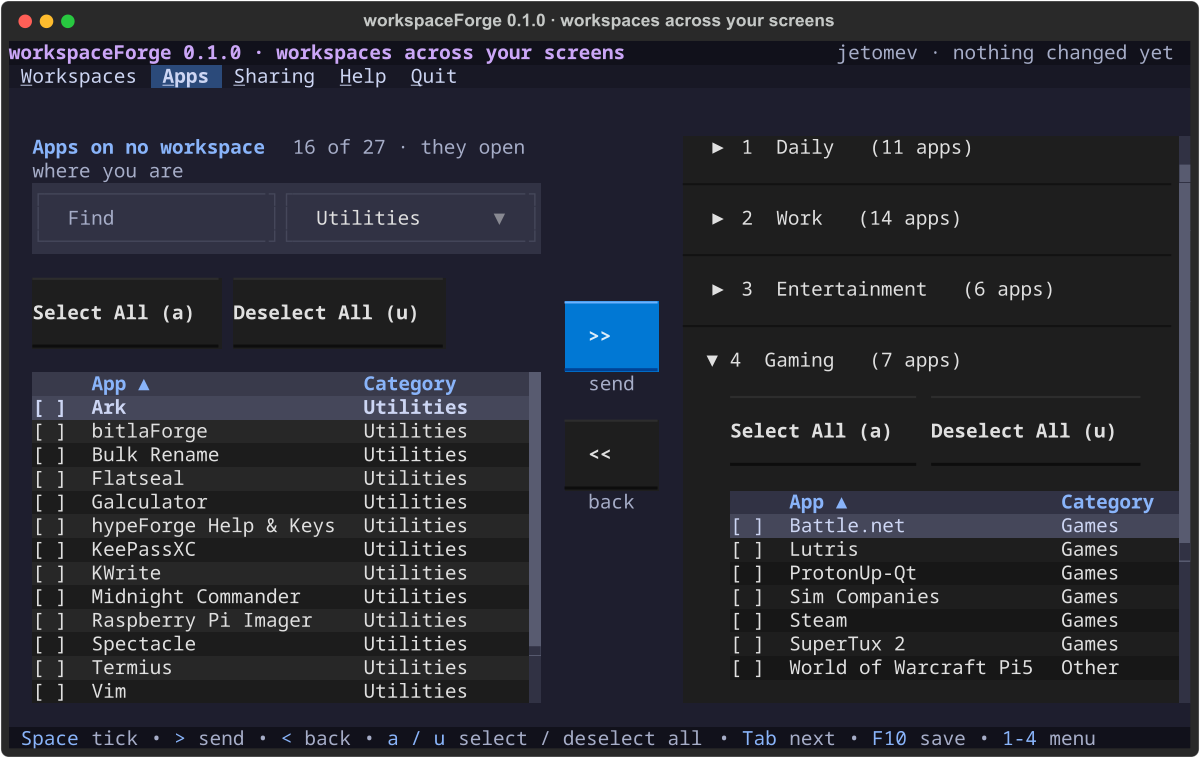
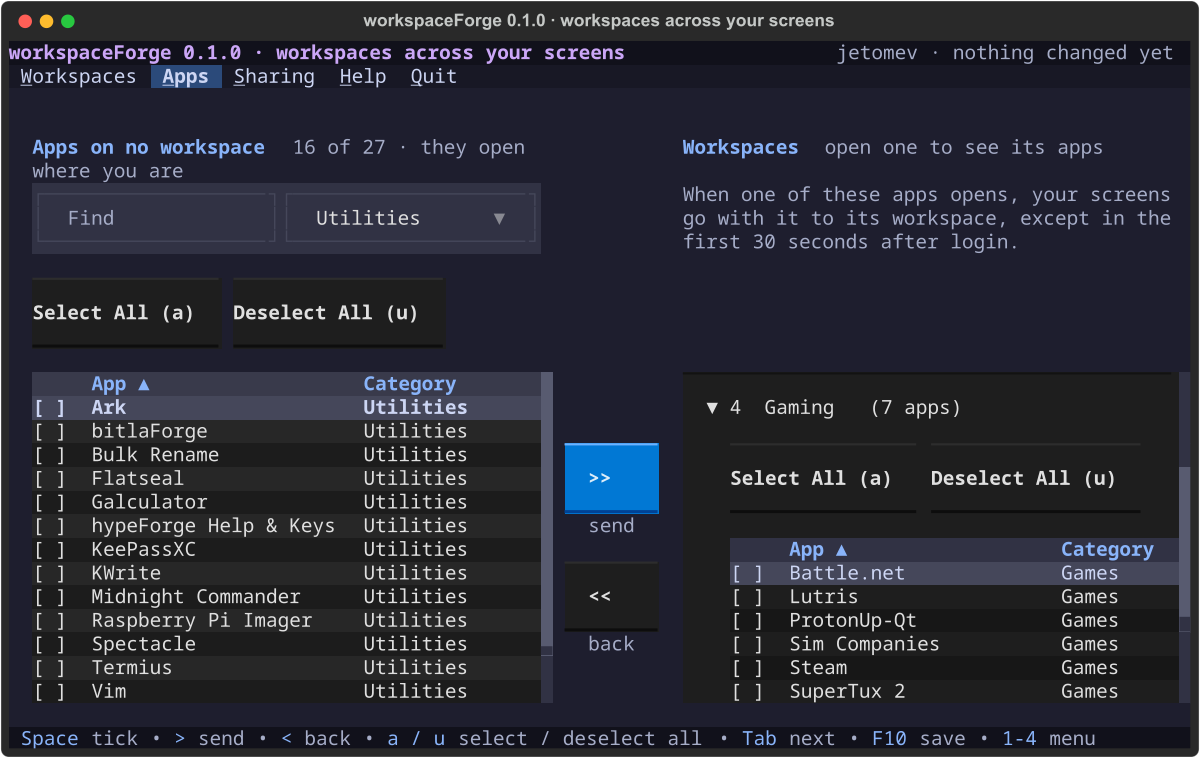
fix(workspaceforge): the Apps page's two tables start and end on the same lines (Javier's first run)
Javier: "Both tables should be at the same height, right now
workspaces is over." One header row across both sides (the apps'
title, filters and buttons on the left; the workspaces' title and the
note on the right); the tables share the body below it.

diff --git a/workspaceforge/workspaceforge/app.py b/workspaceforge/workspaceforge/app.py
@@ -47,12 +47,17 @@ WF_CSS = FORGE_CSS + """
              border-title-style: bold; padding: 0 1; margin: 1 1 0 0; }
 #wf-switch Horizontal { height: auto; }
 #wf-switch-words { width: 1fr; padding: 0 0 0 2; }
-#wf-pool-box { width: 1fr; height: 1fr; padding: 1 1 0 0; }
+#wf-apps-head { height: auto; padding: 1 0 0 0; }
+.wf-side { width: 1fr; height: auto; }
+#wf-pool-box { padding: 0 1 0 0; }
+#wf-right-head { padding: 0 0 0 1; }
+#wf-mid-head { width: 10; }
+#wf-apps-body { height: 1fr; }
 #wf-mid { width: 10; height: 1fr; align: center middle; }
 #wf-mid Button { width: 8; min-width: 8; margin: 1 0 0 0; }
 #wf-mid Static { width: 8; text-align: center; color: $forge-muted; }
-#wf-right { width: 1fr; height: 1fr; padding: 1 0 0 1; }
-#wf-pool { height: 1fr; }
+#wf-right { width: 1fr; height: 1fr; padding: 0 0 0 1; }
+#wf-pool { width: 1fr; height: 1fr; }
 .wf-ws-table { height: auto; max-height: 16; }
 .wf-filters { height: auto; padding: 0 0 1 0; }
 .wf-filters Input { width: 1fr; }
@@ -491,7 +496,7 @@ class WorkspacesView(Vertical):
 
 # ---- 2 · Apps -------------------------------------------------------------------------------------------
 
-class AppsView(Horizontal):
+class AppsView(Vertical):
     """2 · Apps: the apps on no workspace on the left, the workspaces on the right (one open at a
     time), >> and << between them (Javier's layout, D-3: "perfect")."""
 
@@ -507,23 +512,32 @@ class AppsView(Horizontal):
         self.shown_uids: list[int] = []
 
     def compose(self) -> ComposeResult:
-        with Vertical(id="wf-pool-box"):
-            yield Static("", id="wf-pool-title")
-            cats = sorted({v["category"] for v in self.installed.values()})
-            with Horizontal(classes="wf-filters"):
-                yield Input(placeholder="Find", id="pool-find")
-                yield Select([("All categories", "All")] + [(c, c) for c in cats], value="All",
-                             allow_blank=False, id="pool-cat")
-            with Horizontal(classes="wf-buttons"):
-                yield Button("Select All (a)", id="pool-all")
-                yield Button("Deselect All (u)", id="pool-none")
+        # One header row across both sides, so the two tables start on the same line and end on the
+        # same line (Javier's first run, 2026-10-09: "both tables should be at the same height")
+        with Horizontal(id="wf-apps-head"):
+            with Vertical(id="wf-pool-box", classes="wf-side"):
+                yield Static("", id="wf-pool-title")
+                cats = sorted({v["category"] for v in self.installed.values()})
+                with Horizontal(classes="wf-filters"):
+                    yield Input(placeholder="Find", id="pool-find")
+                    yield Select([("All categories", "All")] + [(c, c) for c in cats], value="All",
+                                 allow_blank=False, id="pool-cat")
+                with Horizontal(classes="wf-buttons"):
+                    yield Button("Select All (a)", id="pool-all")
+                    yield Button("Deselect All (u)", id="pool-none")
+            yield Static("", id="wf-mid-head")
+            with Vertical(id="wf-right-head", classes="wf-side"):
+                yield Static("[$forge-accent b]Workspaces[/]  [$forge-muted]open one to see its apps[/]")
+                yield Static("\n[$forge-muted]When one of these apps opens, your screens go with it to its "
+                             "workspace, except in the first 30 seconds after login.[/]")
+        with Horizontal(id="wf-apps-body"):
             yield TickTable(id="wf-pool")
-        with Vertical(id="wf-mid"):
-            yield Button(">>", id="send", variant="primary")
-            yield Static("send")
-            yield Button("<<", id="back")
-            yield Static("back")
-        yield VerticalScroll(id="wf-right")
+            with Vertical(id="wf-mid"):
+                yield Button(">>", id="send", variant="primary")
+                yield Static("send")
+                yield Button("<<", id="back")
+                yield Static("back")
+            yield VerticalScroll(id="wf-right")
 
     def on_mount(self) -> None:
         self.refresh_view()
@@ -567,7 +581,7 @@ class AppsView(Horizontal):
         p = self.session.pending
         if self.open_uid is not None and not p.has(self.open_uid):
             self.open_uid = None
-        widgets = [Static("[$forge-accent b]Workspaces[/]  [$forge-muted]open one to see its apps[/]")]
+        widgets = []
         for i, w in enumerate(p.workspaces, 1):
             table = TickTable(id=f"wt-{w.uid}", classes="wf-ws-table")
             col = Collapsible(Horizontal(Button("Select All (a)", id=f"wsall-{w.uid}"),
@@ -575,8 +589,6 @@ class AppsView(Horizontal):
                               table, title=self._title(i, w), collapsed=w.uid != self.open_uid,
                               id=f"col-{w.uid}", classes="wf-col")
             widgets.append(col)
-        widgets.append(Static("\n[$forge-muted]When one of these apps opens, your screens go with it to its "
-                              "workspace — not in the first 30 seconds after login.[/]"))
         await right.mount(*widgets)
         self.shown_uids = [w.uid for w in p.workspaces]
         self._refresh_right()
@@ -636,7 +648,7 @@ class AppsView(Horizontal):
 
     def _left_has_focus(self) -> bool:
         f = self.app.focused
-        return f is not None and self.query_one("#wf-pool-box") in f.ancestors_with_self
+        return f is not None and any(self.query_one(s) in f.ancestors_with_self for s in ("#wf-pool-box", "#wf-pool"))
 
     def action_all(self, value: bool) -> None:
         if self._left_has_focus():

diff --git a/workspaceforge/TODO.md b/workspaceforge/TODO.md
@@ -28,7 +28,8 @@
 - [x] Review and save: backup (20 kept), open windows carried to their workspace's new name/place, write (read back), the applet reloaded; quit asks to save
 - [x] Manual (5 pages), `--hypeforge`, the **Workspaces** page in hypeForge Settings (repo + live) and its Home card
 - [x] Tests: 33 (model 18, pages 15), 12 behaviours broken on purpose — 12 caught; 100 × 30 pictures checked by eye (found 3 bugs: a rename counted its apps as changes, sharing planned clashing renames, clipped text — fixed, with tests); text console preview clean; `scripts/bench-save.py` (rename + swap + delete on a hidden Sway) OK twice
-- [ ] **NEXT — Javier's first run** (hypeForge Settings → Workspaces, or `python3 main.py`)
+- [x] **Javier's first run (2026-10-09 ~13:40):** Workspaces "works well"; Apps "work well", but both tables should be at the same height → one header row across both sides, the tables start and end on the same lines (fixed the same hour)
+- [ ] **Sharing — Javier: "Not working for me, have to think better about this section."** Waiting for his thinking; meanwhile his call whether the page stays in 0.1.0
 - [ ] More than nine workspaces (D-6): the applet's cell naming changes first, with a bench test
 - [ ] Not yet tried: one or two screens (a VM), a real tty
 
